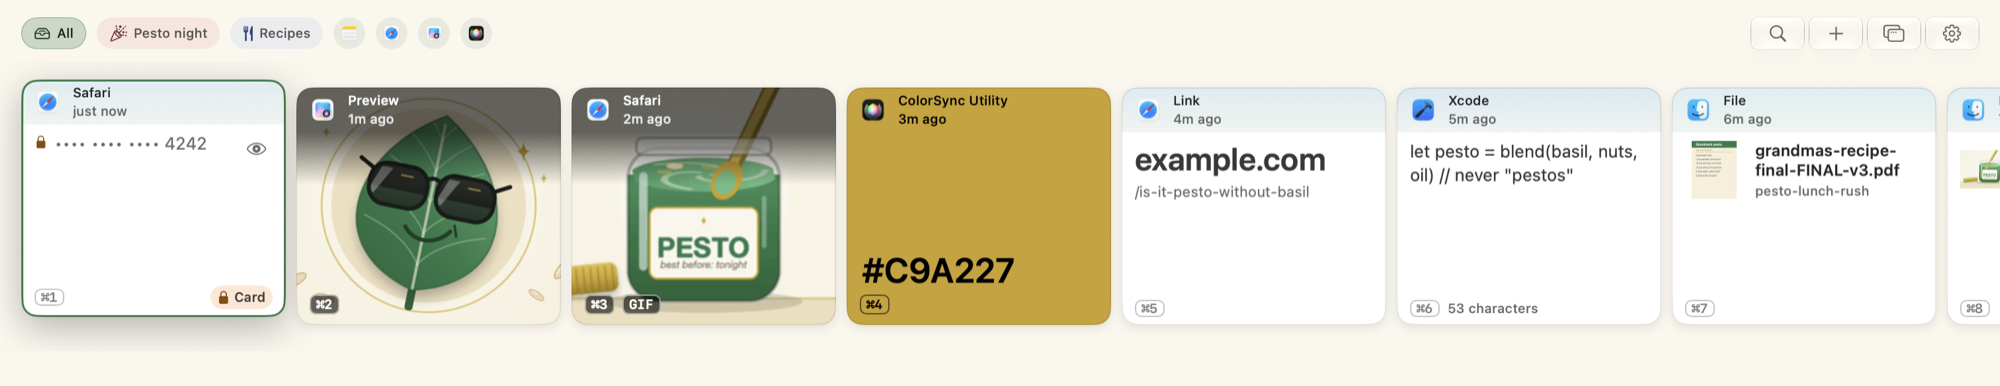
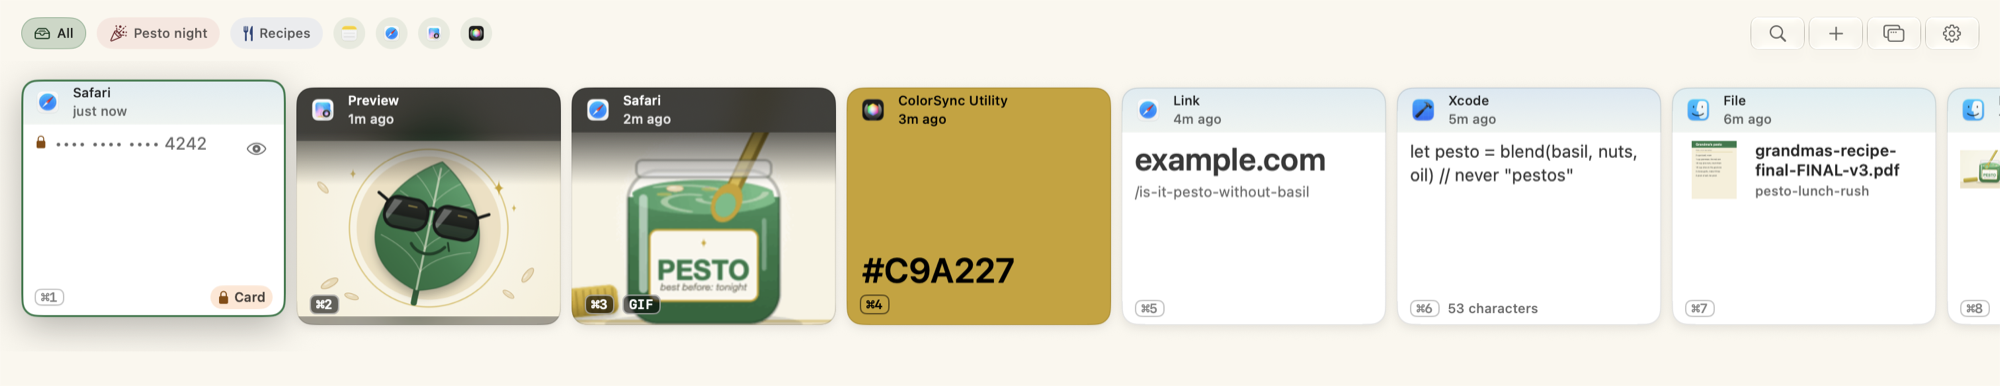
fix: pictures shown whole, changelog backfilled, pictures retaken (post-1.4.0) (#123)
* fix(cards): pictures wider or taller than the card are shown whole over a blurred copy, not cropped

A 3:2 boarding pass lost the first letter of GATE when filled to the card. Fill now applies only near the card's own shape.

* docs(changelog): record 1.0.1 to 1.4.0; the shelf is solid by default

* fix(cards): review fixes — still, opaque blurred backdrop; ADR 0041 supersedes the fit range in 0026

* chore(release): the changelog is a release step, and a test fails until the version has its heading

* docs(images): retake all pictures from 8e1f2a3

---------

Changed region(s): [[0.124, 0.2176, 0.434, 0.8394]]

diff --git a/Tests/PestoRegressionTests/ChangelogCoversReleaseTests.swift b/Tests/PestoRegressionTests/ChangelogCoversReleaseTests.swift
@@ -1,0 +1,21 @@
+// SPDX-License-Identifier: MIT
+import Foundation
+import Testing
+
+/// The changelog stopped at 1.0.0 while four releases shipped. A version in `Pesto.yml` with no heading in
+/// `CHANGELOG.md` fails here, so bumping the version is the reminder to write the entry.
+@Suite("Changelog covers the release")
+struct ChangelogCoversReleaseTests {
+    @Test("every marketing version in Pesto.yml has a dated heading in CHANGELOG.md")
+    func whenVersionIsSet_thenChangelogHasItsHeading() throws {
+        let root = SourceTree.repositoryRoot
+        let project = try String(contentsOf: root.appendingPathComponent("Pesto.yml"), encoding: .utf8)
+        let changelog = try String(contentsOf: root.appendingPathComponent("CHANGELOG.md"), encoding: .utf8)
+        let versions = Set(project.matches(of: /MARKETING_VERSION:\s*"([^"]+)"/).map { String($0.output.1) })
+        #expect(!versions.isEmpty)
+        for version in versions {
+            let heading = "## [\(version)] - "
+            #expect(changelog.contains(heading), "CHANGELOG.md has no \"\(heading)YYYY-MM-DD\" section for \(version)")
+        }
+    }
+}

diff --git a/Sources/Features/Grid/ClipboardCard+ContentFirst.swift b/Sources/Features/Grid/ClipboardCard+ContentFirst.swift
@@ -54,6 +54,9 @@ extension ClipboardCard {
     func fullBleedPictureCard(fit: PictureFit, isAnimated: Bool) -> some View {
         ZStack(alignment: .top) {
             Color.white.opacity(0.06)
+            if fit == .fit, let shown = shownThumbnail {
+                pictureBackdrop(shown.image)
+            }
             pictureLayer(fit: fit)
                 .padding(.top, fit == .fit ? CardLayout.headerHeight : 0)
             pictureScrim
@@ -92,6 +95,18 @@ extension ClipboardCard {
                 }
                 .clipped()
         }
+    }
+
+    private func pictureBackdrop(_ image: NSImage) -> some View {
+        Color.clear
+            .overlay {
+                Image(nsImage: image)
+                    .resizable()
+                    .aspectRatio(contentMode: .fill)
+                    .blur(radius: 14, opaque: true)
+            }
+            .overlay(Color.black.opacity(0.35))
+            .clipped()
     }
 
     private var pictureScrim: some View {

diff --git a/Tests/PestoCoreTests/CardTreatmentTests.swift b/Tests/PestoCoreTests/CardTreatmentTests.swift
@@ -21,13 +21,19 @@ struct CardTreatmentTests {
         )
     }
 
-    private let ordinary = CardTreatmentInput.Picture(aspectRatio: 1.5, isAnimated: false)
+    private let ordinary = CardTreatmentInput.Picture(aspectRatio: 1.0, isAnimated: false)
 
     // MARK: Pictures
 
     @Test("a picture that is loaded fills the card")
     func whenImageLoaded_thenFullBleed() {
         #expect(CardTreatment.decide(input(.image, picture: ordinary)) == .fullBleedPicture(.fill, isAnimated: false))
+    }
+
+    @Test("a 3:2 picture is shown whole, not cropped")
+    func whenWidePicture_thenFit() {
+        let pass = CardTreatmentInput.Picture(aspectRatio: 1.5, isAnimated: false)
+        #expect(CardTreatment.decide(input(.image, picture: pass)) == .fullBleedPicture(.fit, isAnimated: false))
     }
 
     @Test("a GIF fills the card and says it is one")

diff --git a/Tests/PestoCoreTests/PictureScrimTests.swift b/Tests/PestoCoreTests/PictureScrimTests.swift
@@ -40,13 +40,13 @@ struct PictureScrimTests {
 
 @Suite("Picture fit")
 struct PictureFitTests {
-    @Test("ordinary pictures fill the card", arguments: [0.6, 0.75, 1.0, 1.33, 1.78, 2.0])
+    @Test("ordinary pictures fill the card", arguments: [0.8, 0.9, 1.0, 1.2, 1.35])
     func whenOrdinaryAspect_thenFill(aspect: Double) {
         #expect(PictureFit.decide(aspectRatio: aspect) == .fill)
     }
 
-    @Test("very tall and very wide pictures are fitted instead of cropped to a band", arguments: [
-        0.59, 0.3, 0.1, 2.01, 3.0, 10.0
+    @Test("tall and wide pictures, a 3:2 pass included, are fitted instead of cropped", arguments: [
+        0.79, 0.6, 0.3, 0.1, 1.36, 1.5, 1.78, 2.0, 3.0, 10.0
     ])
     func whenExtremeAspect_thenFit(aspect: Double) {
         #expect(PictureFit.decide(aspectRatio: aspect) == .fit)

diff --git a/Sources/Core/Runtime/PictureFit.swift b/Sources/Core/Runtime/PictureFit.swift
@@ -1,12 +1,13 @@
 // SPDX-License-Identifier: MIT
 
 /// Whether a picture card crops the picture to fill the card or shows all of it. A card is about as wide as it is
-/// tall, so a very tall screenshot or a very wide banner filled to it would be a thin unreadable slice of the middle.
+/// tall, so anything much wider or taller than that loses a third of its words or more when filled (a 3:2 boarding
+/// pass lost "G" of GATE); those are shown whole.
 public enum PictureFit: Equatable, Sendable {
     case fill
     case fit
 
-    public static let fillRange: ClosedRange<Double> = 0.6...2.0
+    public static let fillRange: ClosedRange<Double> = 0.8...1.35
 
     public static func decide(aspectRatio: Double) -> PictureFit {
         aspectRatio.isFinite && fillRange.contains(aspectRatio) ? .fill : .fit

diff --git a/docs/design/website-shelf-spec.md b/docs/design/website-shelf-spec.md
@@ -65,7 +65,7 @@ A text clip that is exactly one emoji or symbol (`CardPreviewText.isSingleGlyph`
 Decided by `CardTreatment` (Core); the site's demo shelf follows in a separate website change. Header, tile, corner and rings are as above unless said.
 | Clip | Card |
 |---|---|
-| Picture, GIF | The picture fills the card (`object-fit: cover`) when its aspect ratio (width / height) is 0.6 to 2.0; otherwise it is `contain`ed below the 34 px header on a 6% white ground. The header floats over it with no band wash: tile, then the app's name (not "Image" or "GIF") at 12 px medium and the age at 11 px, in white. Scrim: black 60% from the top edge to 34 px, fading to clear by 74 px (`PictureScrim`: 60%, 34, 40). Bottom left, 10 px in, 8 px up: the shortcut number in a 5 px radius pill, monospaced 11 px semibold, white on black 60% with a 1 px white 55% outline; a GIF also has a "GIF" pill beside it. The paste count (`↑4`) is a pill of the same kind at the bottom right; a collection badge and tag chips are white on black 60% too. No footer line. |
+| Picture, GIF | The picture fills the card (`object-fit: cover`) when its aspect ratio (width / height) is 0.8 to 1.35; otherwise it is `contain`ed below the 34 px header over a blurred copy of itself darkened 35% (ADR 0041). The header floats over it with no band wash: tile, then the app's name (not "Image" or "GIF") at 12 px medium and the age at 11 px, in white. Scrim: black 60% from the top edge to 34 px, fading to clear by 74 px (`PictureScrim`: 60%, 34, 40). Bottom left, 10 px in, 8 px up: the shortcut number in a 5 px radius pill, monospaced 11 px semibold, white on black 60% with a 1 px white 55% outline; a GIF also has a "GIF" pill beside it. The paste count (`↑4`) is a pill of the same kind at the bottom right; a collection badge and tag chips are white on black 60% too. No footer line. |
 | Color | The card is the color. Header as above, in black or white ink at full strength for name and age (the higher WCAG contrast on the fill). The text is 26 px semibold (15 px if longer than 9 characters) bottom left, 12 px in, above an outlined shortcut pill in the same ink. |
 | One line of text, 48 characters or fewer (ADR 0031) | Body in 600 weight, line height 1.25. Up to 24 characters (counted as visible characters, after trimming spaces and line breaks; an emoji or accented letter is one): 24 px, at most 2 lines. 25 to 48 characters: 18 px, at most 3 lines (fewer when the card is too short). Both scale with the card size like other body text; they do not grow with the browser's text size. The first line's capital letters sit 12 px under the header's bottom edge on both sizes (24 px: line box starts 6 px under it; 18 px: about 1.5 px lower, so the capitals line up). Header and footer as for text. A lone emoji or symbol keeps the glyph layout. |
 | Link, no preview picture (ADR 0031) | The host (lower case, user info dropped, never the page's own site name) at 24 px semibold up to 24 characters of host, 18 px semibold beyond; no smaller step. It stays on one line, never wrapping mid-host: it shrinks with the card width down to 0.7 of its size, then ends in an ellipsis (the website demo already does this). Beneath it the port and path (no query) at 11 px in the muted color, in the room left (up to 3 lines on Medium and Large, 2 on Small, none if there is no room). The first line's capitals sit 12 px under the header, as for text. A link with a preview picture keeps its picture body. |

diff --git a/CHANGELOG.md b/CHANGELOG.md
@@ -7,10 +7,46 @@ Format follows [Keep a Changelog](https://keepachangelog.com/en/1.1.0/).
 
 ## [Unreleased]
 
+## [1.4.0] - 2026-11-07
+### Changed
+- The shelf is solid by default. The translucent Liquid Glass look, the earlier default, is an option in Settings, Appearance. ([ADR 0035](decisions/0035-shelf-surface-solid-or-glass.md))
+- Short text clips and link hosts lead in prominent sizing; cards covered during screen sharing show clear kind and age badges.
+- New backup passphrases need twelve characters and pass a strength check.
+- Pictures wider or taller than a card are shown whole over a blurred copy of themselves, not cropped.
+
+### Added
+- Copy Recognized Text from any picture clip, in its card menu or hover card.
+- Paste As and Copy As turn structured text into formatted JSON and Markdown.
+- Paste import keeps Paste boards as collections and imports recent history up to capacity.
+
+## [1.3.0] - 2026-11-05
+### Changed
+- Search filters: Today and Yesterday are chips; a More menu holds the last 7 and 30 days, the last hours and any recent day. Format and From list every language and app in your history. Ask understands exact dates.
+- Typing on the shelf without ⌘F counts every key, including after a pause.
+- The clip menu leads with Paste and Paste as Plain Text. The shelf opens on All again after 90 seconds closed.
+- A clip in a collection shows when you first copied it, so a paste does not change it.
+- Settings: General is grouped into Shelf, Copy and paste and Floating window.
+
+## [1.2.0] - 2026-11-02
+### Added
+- Multi-device sync through encrypted folders (off by default). ([ADR 0018](decisions/0018-multi-device-sync.md))
+- Dedicated importers for eleven clipboard managers, any CSV, JSON or text file, and Raycast snippets.
+- Decode JWT from a card; lone emojis and symbols get glyph cards; `{{clipboard}}` and `{{uuid}}` snippet placeholders.
+
 ### Changed
 - Settings → Data: backup is a switch, *Back up this Mac*, under a line that says your clips stay on this Mac and what the
   backup is doing. The fourth tile shows the time of the last backup, or *Needs you* when the last run could not save.
   *Restore from Backup…* counts what it would add before you confirm. ([ADR 0019](decisions/0019-backup-and-sync-group.md))
+
+## [1.1.0] - 2026-10-28
+### Added
+- Smart Snippets: fill-ins that Pesto asks for when you paste, and suggestions for look-alike text you paste over several days.
+- Shelf app chips show the app icon and open in place on hover.
+
+## [1.0.1] - 2026-10-26
+### Changed
+- Signed with a Developer ID and notarized.
+- Shelf suggestions above the clip grid; refined spacing during search.
 
 ## [1.0.0] - 2026-10-23
 

diff --git a/decisions/0041-a-picture-fills-the-card-only-near-its-shape.md b/decisions/0041-a-picture-fills-the-card-only-near-its-shape.md
@@ -1,0 +1,22 @@
+# 0041. A picture fills the card only when it is near the card's shape; anything else is shown whole over a blurred copy of itself
+
+Status: Accepted
+
+Nothing about the network, storage, encryption, backup or sync changes. It supersedes one sentence of ADR 0026: "A picture whose aspect ratio is outside 0.6 to 2.0 … is fitted below the header instead of cropped".
+
+## Context
+A card is about as wide as it is tall. A 3:2 picture (a boarding-pass screenshot, most photos) filled into it lost a third of its width: the website film showed "ATE B7" for "GATE B7". The range 0.6 to 2.0 kept every ordinary picture on the fill path, which is the path that crops.
+
+## Decision
+- **`PictureFit.fillRange` is 0.8 to 1.35.** Inside it the picture fills the card, as before. Outside it, including 3:2 and 16:9, the whole picture is shown below the header.
+- **A fitted picture sits on a blurred, darkened copy of itself** (14 pt blur, black at 35%), not on a flat ground, so a wide picture does not look like a small thumbnail in an empty card. The backdrop is always a still image, so a GIF starts one animation and not two, and a blurred copy of a covered card is never drawn (a covered card is `.standard`).
+- **What does not change:** the scrim and header over a picture, the GIF pill, the 480 px thumbnail, the covered-card rules (ADR 0003).
+
+## Consequences
+- More cards show a letterboxed picture; their picture is smaller than before and complete.
+- One extra image draw per fitted card. Scroll performance is checked with `make bench-scroll` before release.
+- Tested: `PictureFitTests` (the range's edges, 3:2 and 16:9 fit) and `CardTreatmentTests`; the film's frames show the boarding pass whole.
+
+## Docs affected
+- `docs/design/website-shelf-spec.md` (the picture row)
+- `decisions/README.md` (this record), `decisions/0026-cards-put-the-content-first.md` (status line)

diff --git a/docs/release.md b/docs/release.md
@@ -107,7 +107,7 @@ makes macOS refuse to launch the app, which is why `PestoSync.entitlements` is u
 A development build signed "Pesto Development" can never use the iCloud key, so it always takes the this-device path.
 
 ## Each release
-1. Set `MARKETING_VERSION` and bump `CURRENT_PROJECT_VERSION` (an integer that only goes up) in `Pesto.yml`.
+1. Set `MARKETING_VERSION` and bump `CURRENT_PROJECT_VERSION` (an integer that only goes up) in `Pesto.yml`. Move the `## [Unreleased]` entries of `CHANGELOG.md` under a `## [<version>] - <date>` heading and add what is missing; the website's release notes (step 5) say the same in the same words. `ChangelogCoversReleaseTests` fails until the heading exists.
 2. `make check-packages` shows no line starting `!!!`: it compares the two SwiftPM pins in `Pesto.yml` (Sparkle, swift-snapshot-testing) with their latest releases and with GitHub's Swift advisories, and prints the table. Dependabot cannot see `Pesto.yml`, so this is the only reminder. Keep each pin at the newest release that carries no known vulnerability; after a bump run `make update-resolved`, review `Pesto.resolved`, and do the Sparkle local update test below, and delete the stale module caches first (`rm -rf .build/*/Build/Intermediates.noindex/SwiftExplicitPrecompiledModules`): after the 2.10.1 bump `make install` and both benches failed with "Sparkle.framework/Headers/SUAppcastItem.h has been modified since the module file ... was built".
 3. `scripts/verify.sh` is green, and the manual checklist in `docs/testing.md` is done.
    **Pictures and film, after the version bump and before the release, in this order:**

diff --git a/decisions/README.md b/decisions/README.md
@@ -49,6 +49,7 @@ suggestions work, the notch proposal) live in `docs/design/`.
 | [0038](0038-sync-folder-hardening.md) | Small sync files are read through a 1 MiB cap, a grant's key is checked before it is saved, and a deletion tombstone holds no hash of a secret. |
 | [0039](0039-sync-trust-hardening.md) | Pairing is eight stretched words; a Mac keeps the group and epoch it joined; a log's signer must be its Mac; join requests expire after a day; undownloaded provider files are not read yet. |
 | [0040](0040-backup-passphrase-must-be-strong.md) | A backup passphrase must be strong: twelve characters at least, no common word or run, and only a strong one is accepted. |
+| [0041](0041-a-picture-fills-the-card-only-near-its-shape.md) | A picture fills the card only near the card's shape (aspect 0.8 to 1.35); anything else is shown whole over a blurred copy of itself. |
 
 ## Template
 

diff --git a/decisions/0026-cards-put-the-content-first.md b/decisions/0026-cards-put-the-content-first.md
@@ -1,6 +1,6 @@
 # 0026. Cards put the content first: a picture, a color, short text and a link's host are the loudest thing on their card
 
-Status: Accepted; the sizes of short text and of a link's host are superseded by 0031
+Status: Accepted; the sizes of short text and of a link's host are superseded by 0031, and the range for fitting a picture by 0041
 
 Relates to `docs/design/card-typography.md` (the header stays the quiet band for every card that keeps one). Nothing about storage, encryption, sync or the network changes.
 
